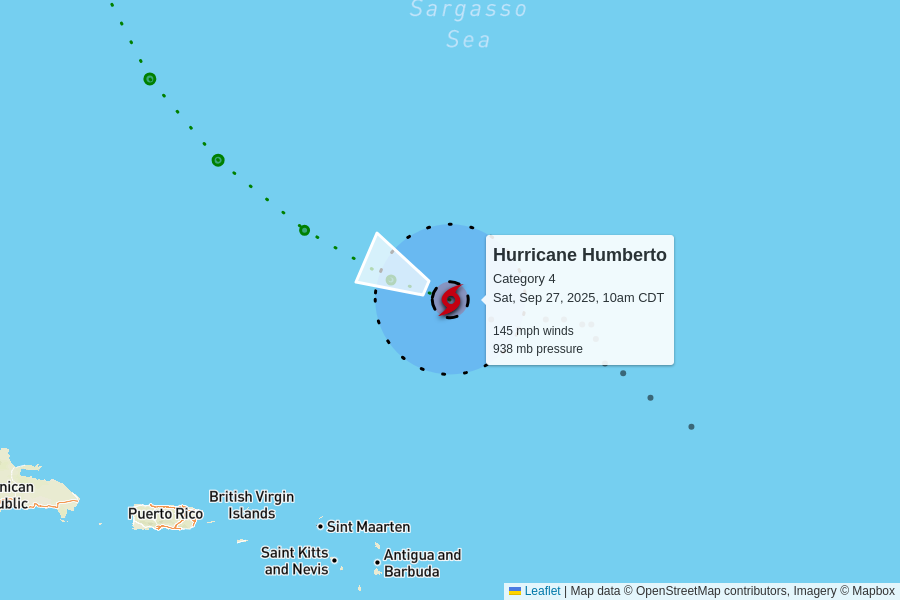
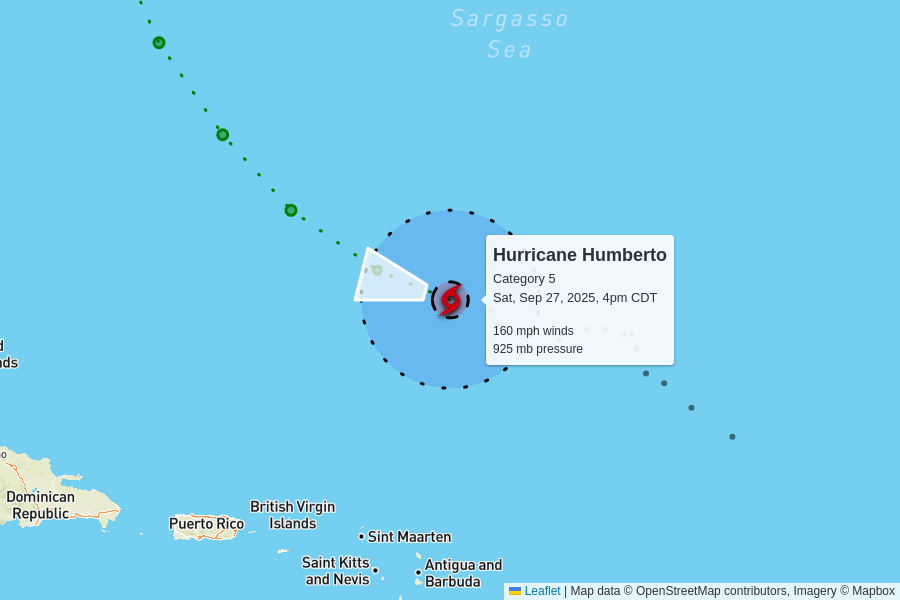
automatic update

diff --git a/docs/index.html b/docs/index.html
@@ -101,10 +101,54 @@
 
     <table>
       <tr>
+        <td colspan="6" class="storm category-5" >
+          <h2>
+            Hurricane Humberto - Category 5
+            <p class="updated">last updated <span data-time>2025-09-27T21:00:00.000Z</span></p>
+          </h2>
+        </td>
+      </tr>
+      
+      <tr>
+        <th class="spacer"></th>
+        <th>wind speed</th>
+        <th>central pressure</th>
+        <th>movement</th>
+        <th>data (CSV)</th>
+        <th>National Hurricane Center</th>
+      </tr>
+      <tr>
+        <td class="spacer"></td>
+        <td>160 mph<br>+15 mph since last update</td>
+        <td>925 mb<br>-13 mb since last update</td>
+        <td>
+          10 mph to the west-northwest
+          <br/>
+          <span style="display: inline-block; font-size: 1.5em; transform: rotate(285deg);">↑</span>
+        </td>
+        <td><a href="https://raw.githubusercontent.com/mgwalker/atlantic-hurricanes/main/data/csv/AL082025.csv">AL082025.csv</a></td>
+        <td><a href="https://www.nhc.noaa.gov/archive/2025/HUMBERTO.shtml?">NHC advisories</a></td>
+      </tr>
+      <tr id="storm_AL082025" >
+        <td class="spacer">
+        <td colspan="5">
+          <figure>
+            <img src="AL082025.png">
+            <figcaption>
+              Map data &copy; <a href="https://www.openstreetmap.org/copyright">OpenStreetMap</a> contributors,
+              Imagery &copy; <a href="https://www.mapbox.com/">Mapbox</a> |
+              <a href="https://www.mapbox.com/map-feedback/" target="_blank">Improve this map</a>
+            </figcaption>
+          </figure>
+        </td>
+      </tr>
+      
+
+      <tr>
         <td colspan="6" class="storm category-0" >
           <h2>
             Tropical Depression Nine
-            <p class="updated">last updated <span data-time>2025-09-27T15:00:00.000Z</span></p>
+            <p class="updated">last updated <span data-time>2025-09-27T21:00:00.000Z</span></p>
           </h2>
         </td>
       </tr>
@@ -120,11 +164,11 @@
       <tr>
         <td class="spacer"></td>
         <td>35 mph<br>0 mph since last update</td>
-        <td>1005 mb<br>-2 mb since last update</td>
+        <td>1005 mb<br>0 mb since last update</td>
         <td>
-          6 mph to the northwest
+          5 mph to the northwest
           <br/>
-          <span style="display: inline-block; font-size: 1.5em; transform: rotate(320deg);">↑</span>
+          <span style="display: inline-block; font-size: 1.5em; transform: rotate(315deg);">↑</span>
         </td>
         <td><a href="https://raw.githubusercontent.com/mgwalker/atlantic-hurricanes/main/data/csv/AL092025.csv">AL092025.csv</a></td>
         <td><a href="https://www.nhc.noaa.gov/archive/2025/NINE.shtml?">NHC advisories</a></td>
@@ -134,50 +178,6 @@
         <td colspan="5">
           <figure>
             <img src="AL092025.png">
-            <figcaption>
-              Map data &copy; <a href="https://www.openstreetmap.org/copyright">OpenStreetMap</a> contributors,
-              Imagery &copy; <a href="https://www.mapbox.com/">Mapbox</a> |
-              <a href="https://www.mapbox.com/map-feedback/" target="_blank">Improve this map</a>
-            </figcaption>
-          </figure>
-        </td>
-      </tr>
-      
-
-      <tr>
-        <td colspan="6" class="storm category-4" >
-          <h2>
-            Hurricane Humberto - Category 4
-            <p class="updated">last updated <span data-time>2025-09-27T15:00:00.000Z</span></p>
-          </h2>
-        </td>
-      </tr>
-      
-      <tr>
-        <th class="spacer"></th>
-        <th>wind speed</th>
-        <th>central pressure</th>
-        <th>movement</th>
-        <th>data (CSV)</th>
-        <th>National Hurricane Center</th>
-      </tr>
-      <tr>
-        <td class="spacer"></td>
-        <td>145 mph<br>0 mph since last update</td>
-        <td>938 mb<br>0 mb since last update</td>
-        <td>
-          8 mph to the west-northwest
-          <br/>
-          <span style="display: inline-block; font-size: 1.5em; transform: rotate(295deg);">↑</span>
-        </td>
-        <td><a href="https://raw.githubusercontent.com/mgwalker/atlantic-hurricanes/main/data/csv/AL082025.csv">AL082025.csv</a></td>
-        <td><a href="https://www.nhc.noaa.gov/archive/2025/HUMBERTO.shtml?">NHC advisories</a></td>
-      </tr>
-      <tr id="storm_AL082025" >
-        <td class="spacer">
-        <td colspan="5">
-          <figure>
-            <img src="AL082025.png">
             <figcaption>
               Map data &copy; <a href="https://www.openstreetmap.org/copyright">OpenStreetMap</a> contributors,
               Imagery &copy; <a href="https://www.mapbox.com/">Mapbox</a> |
